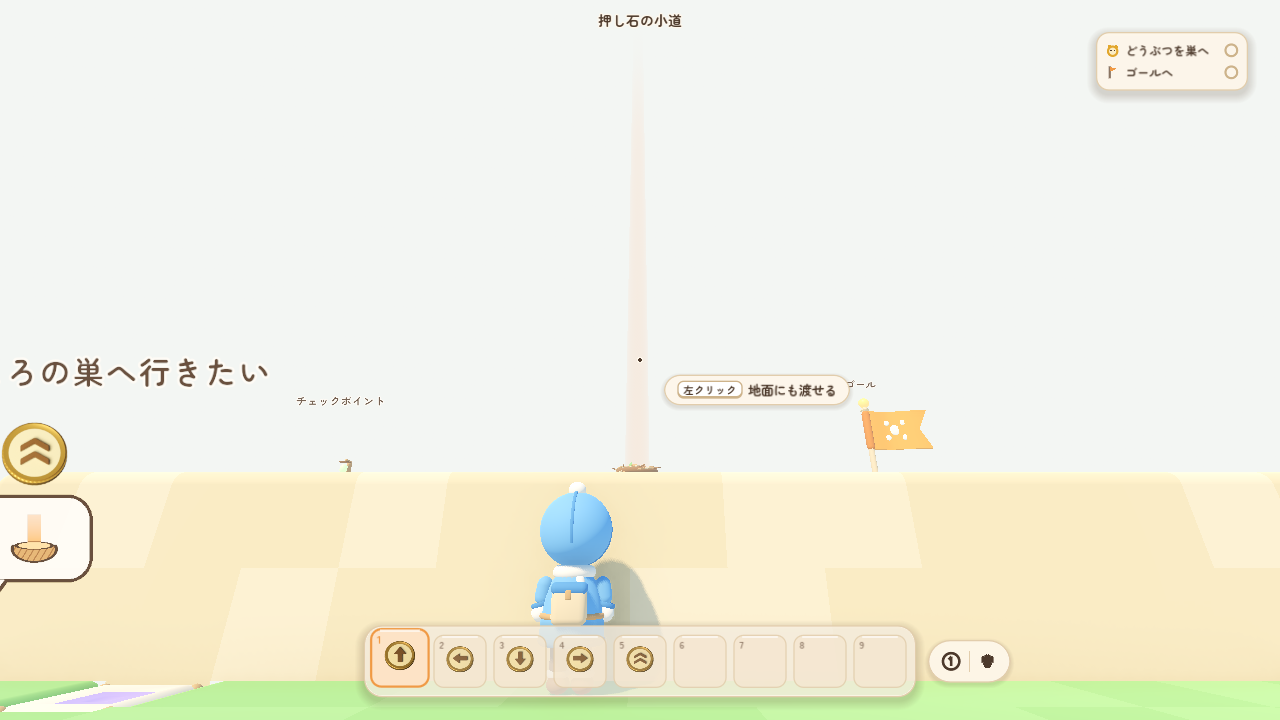
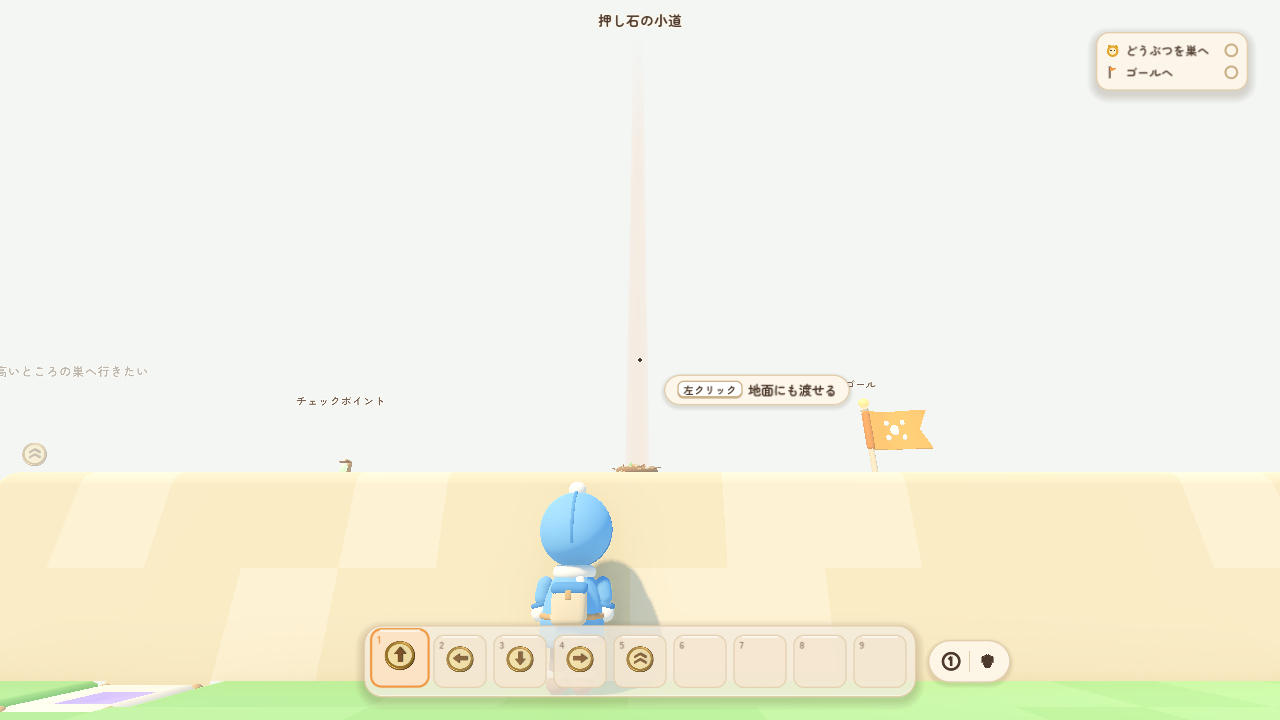
生き物の吹き出しと願いの一文を、近いと小さく止めて画面の端では消す
段の真下の画面（camera-ledge-after.png）で、カメラのすぐ前の生き物の願いの一文と頭の上のメダルが
大きく描かれ、画面の端で切れていた。門の文字（ADR 0020）と同じく、カメラから 8 m より近いと画面での
大きさを止め、3.5〜2 m で薄くして消す。画面から半分ほどはみ出したときも薄くして消す。
吹き出し・願いの一文・持っている能力のアイコンの 3 つに同じ決まりを使い、テストと画面を足した。

Claude-Session: https://claude.ai/code/session_01FxaUCKb9CY6j4JRBpmrXar

Changed region(s): [[0.0, 0.5806, 0.0938, 0.825], [0.0, 0.4889, 0.1875, 0.55]]

diff --git a/docs/adr/0021-first-ten-minutes-owner-decisions.md b/docs/adr/0021-first-ten-minutes-owner-decisions.md
@@ -110,6 +110,10 @@
   （`WishMarker.beam_screen_fade`。シェーダーと同じ式）。遠くからの目印としては、画面のどこでもそのまま。
   広場の「つぎはここ」の柱は同じシェーダーだが薄くしない（画面に入れて見せたいので。`screen_fade` = 0）。
 - **広場**: 次の門の柱が画面の外 → 上の 4。
+- **生き物の頭の上の吹き出し・願いの一文・持っている能力のアイコン**（camera-ledge-after.png の見直しで見つけた）:
+  カメラのすぐ前に生き物がいると、一文とメダルが大きく描かれて画面の端で切れていた。門の文字（ADR 0020）と同じく、
+  カメラから 8 m より近いと画面での大きさを止め、3.5〜2 m で薄くして消す。画面の中に入っている割合が 85% を切ると
+  薄くし始め、50% で消す（`CreatureWishView.near_fit` / `on_screen_alpha`。`test_creature_wishes`）。
 
 ## 自由な遊びを止めない
 
